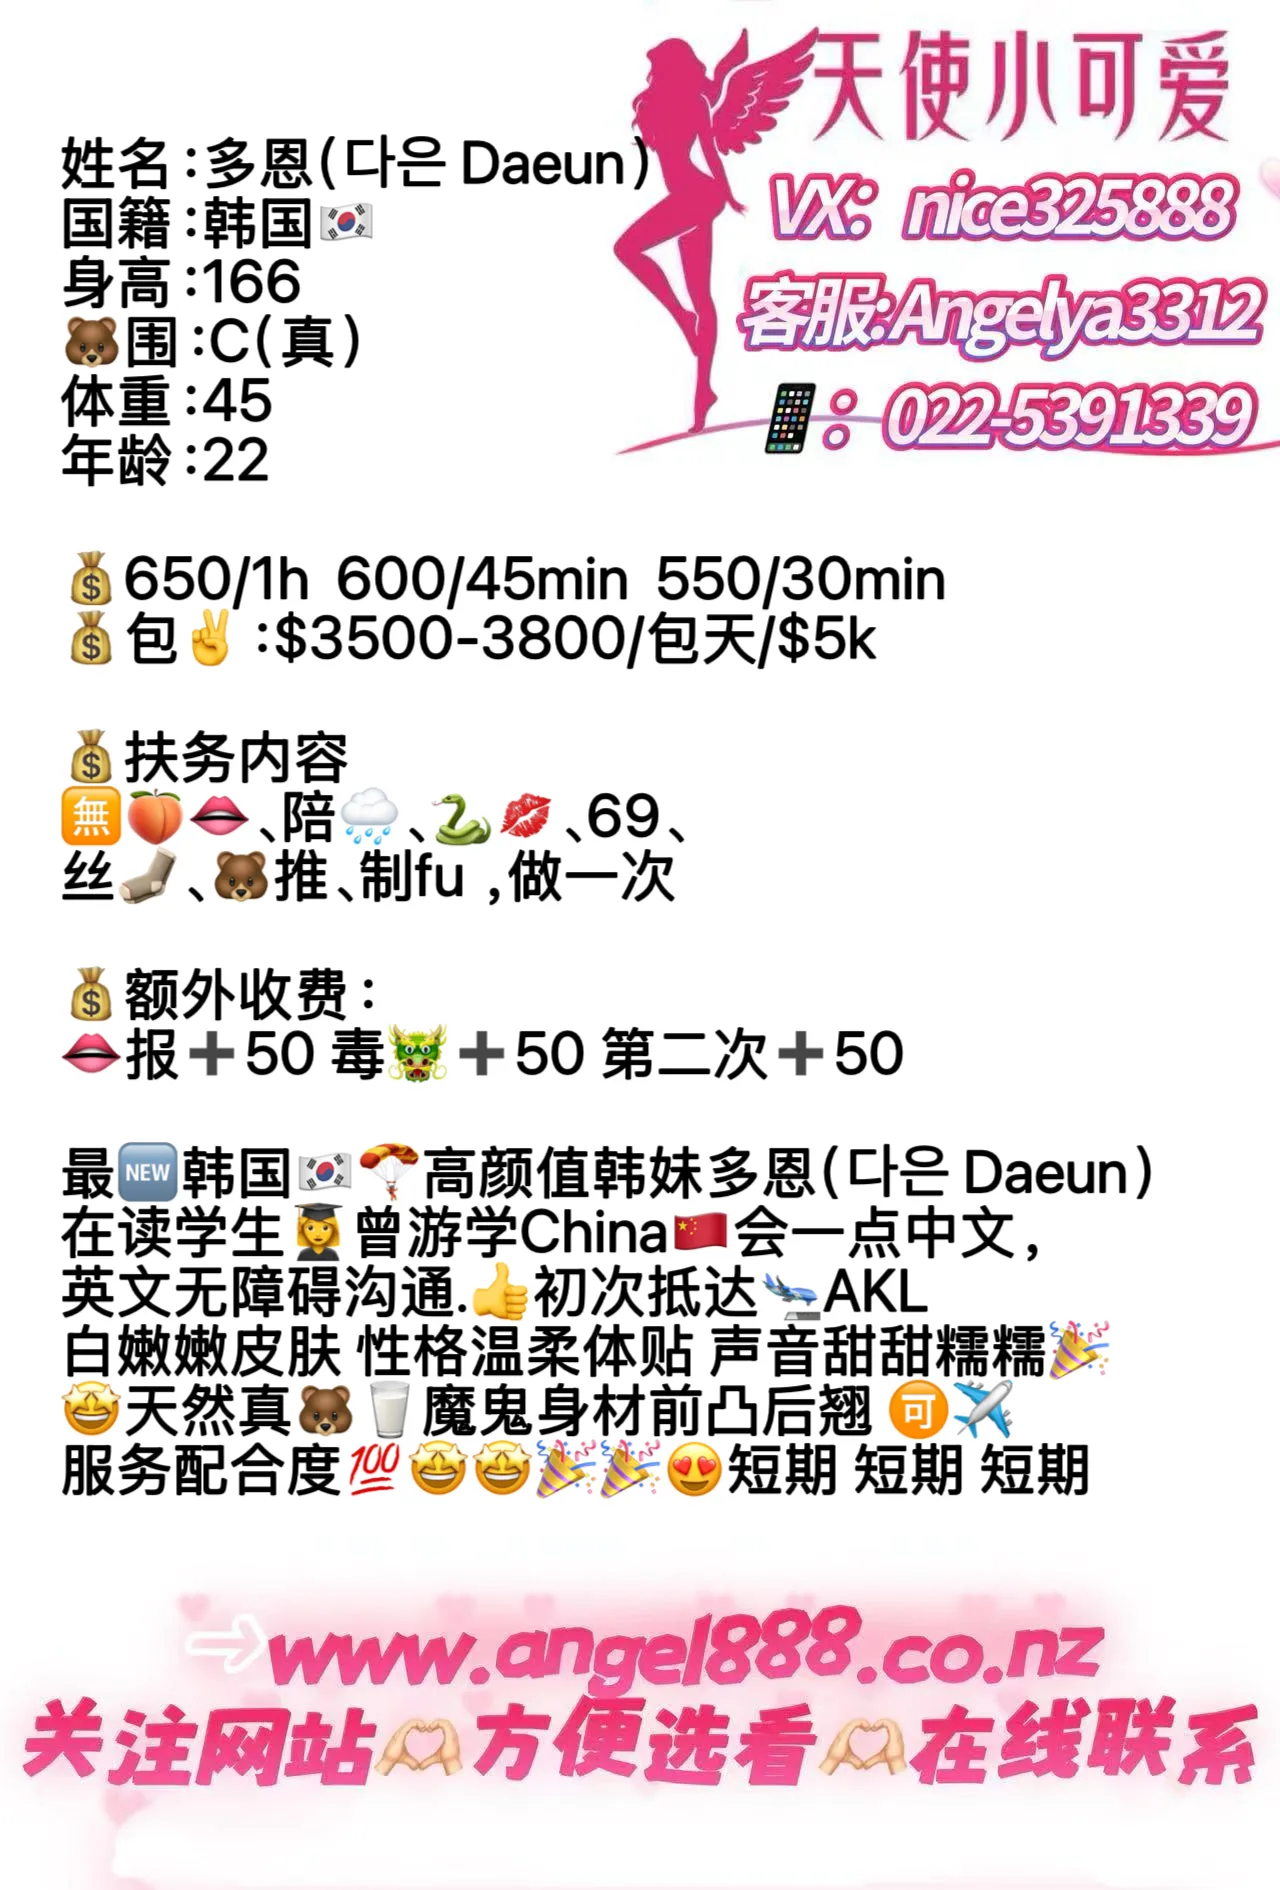
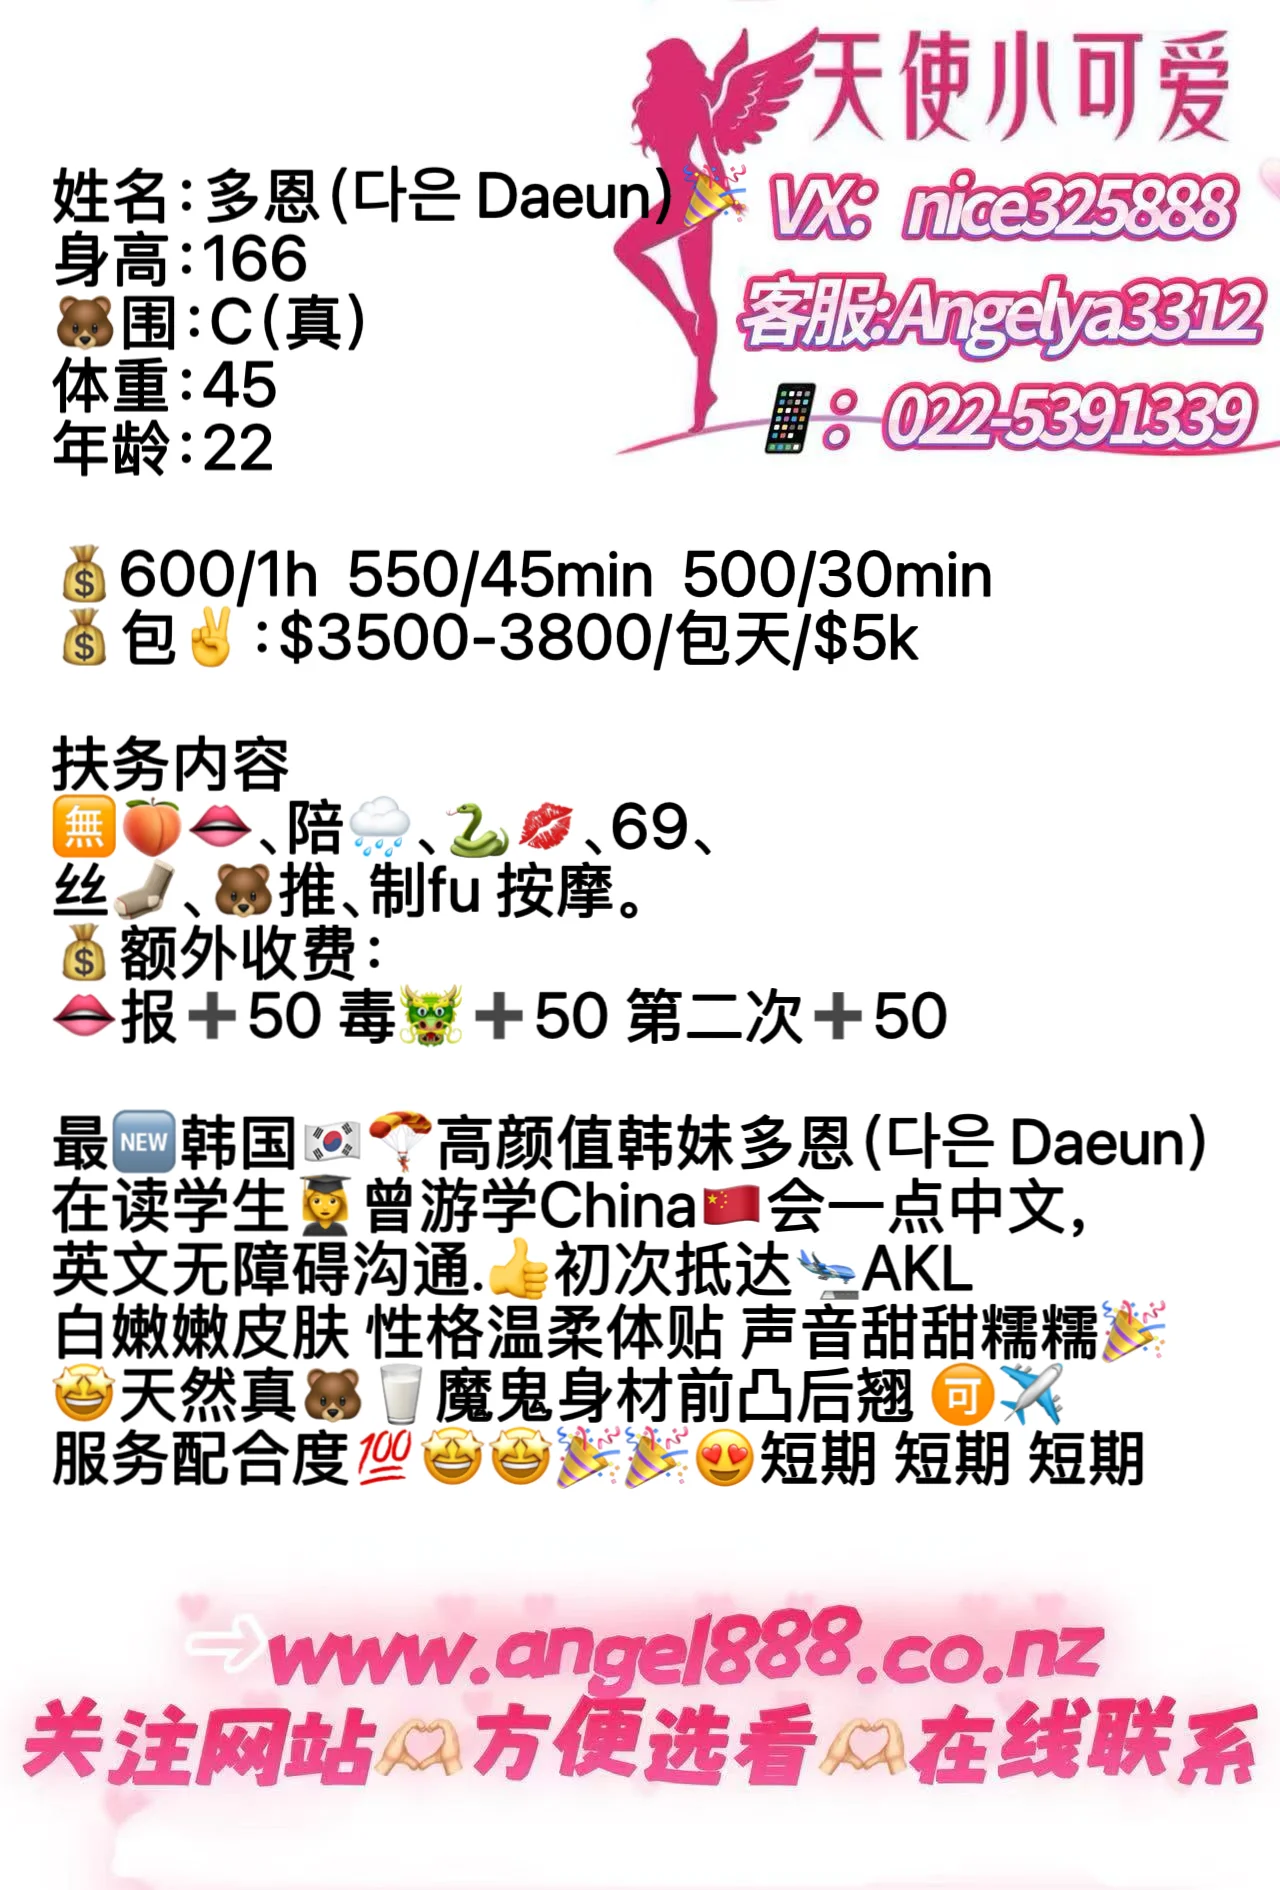
fix: update Daeun (id: 108) data card images and pricing

Changed region(s): [[0.0312, 0.0624, 0.9375, 0.8116]]

diff --git a/src/lib/data.js b/src/lib/data.js
@@ -134,10 +134,10 @@ export const girls = [
     },
     image: "/images/girls/daeun/cover.webp",
     description: {
-      en: "Fresh arrival from South Korea! Daeun is a stunning 22-year-old Korean college student companion now available in Auckland CBD for an exclusive limited-time visit. Standing at 166cm and 45kg with all-natural C-cup curves and flawless fair porcelain skin, she radiates authentic K-beauty idol charm paired with a slim, voluptuous silhouette. Soft-spoken, sweet, and remarkably attentive, she previously studied in China, speaks basic Mandarin, and is fully fluent in English. Her standard package ($650/1h · $600/45min · $550/30min) includes shower play together, French kissing, natural BJ, breast massage, mutual oral (69), uniform roleplay, stockings, and 1 passionate round. Optional extras: CIM (+$50), rimming (+$50), second round (+$50). Overnight ($3500-$3800) and all-day ($5000) bookings available.",
-      cn: "🆕韩国高颜值首尔美少女初次空降奥克兰！04年出生的多恩（Daeun）现已就位市区 CBD 为您提供短期尊享陪伴。她身高 166cm，体重 45kg，身材曼妙纤细且前凸后翘，拥有纯天然性感 C 罩杯。五官精致甜美，洋溢着地道的韩系爱豆气质，皮肤白嫩细腻，声线甜美温柔。身为在读学生，曾游学中国，会日常中文，英文流利无障碍沟通。服务配合度极高，贴心入微。套餐（$650/1h · $600/45min · $550/30min）包含双人共浴、法式舌吻、无套口吹、胸推漫游、69互动、性感制服诱惑、黑丝及 1 次温存互动。可额外加选口爆 (+$50)、毒龙 (+$50)、第二次 (+$50)。另提供包夜（$3500-$3800）与包天（$5000）尊享相伴。",
+      en: "Fresh arrival from South Korea! Daeun is a stunning 22-year-old Korean college student companion now available in Auckland CBD for an exclusive limited-time visit. Standing at 166cm and 45kg with all-natural C-cup curves and flawless fair porcelain skin, she radiates authentic K-beauty idol charm paired with a slim, voluptuous silhouette. Soft-spoken, sweet, and remarkably attentive, she previously studied in China, speaks basic Mandarin, and is fully fluent in English. Her standard package ($600/1h · $550/45min · $500/30min) includes shower play together, French kissing, natural BJ, breast massage, mutual oral (69), uniform roleplay, stockings, and 1 passionate round. Optional extras: CIM (+$50), rimming (+$50), second round (+$50). Overnight ($3500-$3800) and all-day ($5000) bookings available.",
+      cn: "🆕韩国高颜值首尔美少女初次空降奥克兰！04年出生的多恩（Daeun）现已就位市区 CBD 为您提供短期尊享陪伴。她身高 166cm，体重 45kg，身材曼妙纤细且前凸后翘，拥有纯天然性感 C 罩杯。五官精致甜美，洋溢着地道的韩系爱豆气质，皮肤白嫩细腻，声线甜美温柔。身为在读学生，曾游学中国，会日常中文，英文流利无障碍沟通。服务配合度极高，贴心入微。套餐（$600/1h · $550/45min · $500/30min）包含双人共浴、法式舌吻、无套口吹、胸推漫游、69互动、性感制服诱惑、黑丝及 1 次温存互动。可额外加选口爆 (+$50)、毒龙 (+$50)、第二次 (+$50)。另提供包夜（$3500-$3800）与包天（$5000）尊享相伴。",
     },
-    price: "$650 / 1h · $600 / 45min · $550 / 30min",
+    price: "$600 / 1h · $550 / 45min · $500 / 30min",
     services: {
       en: [
         "Shower together",
